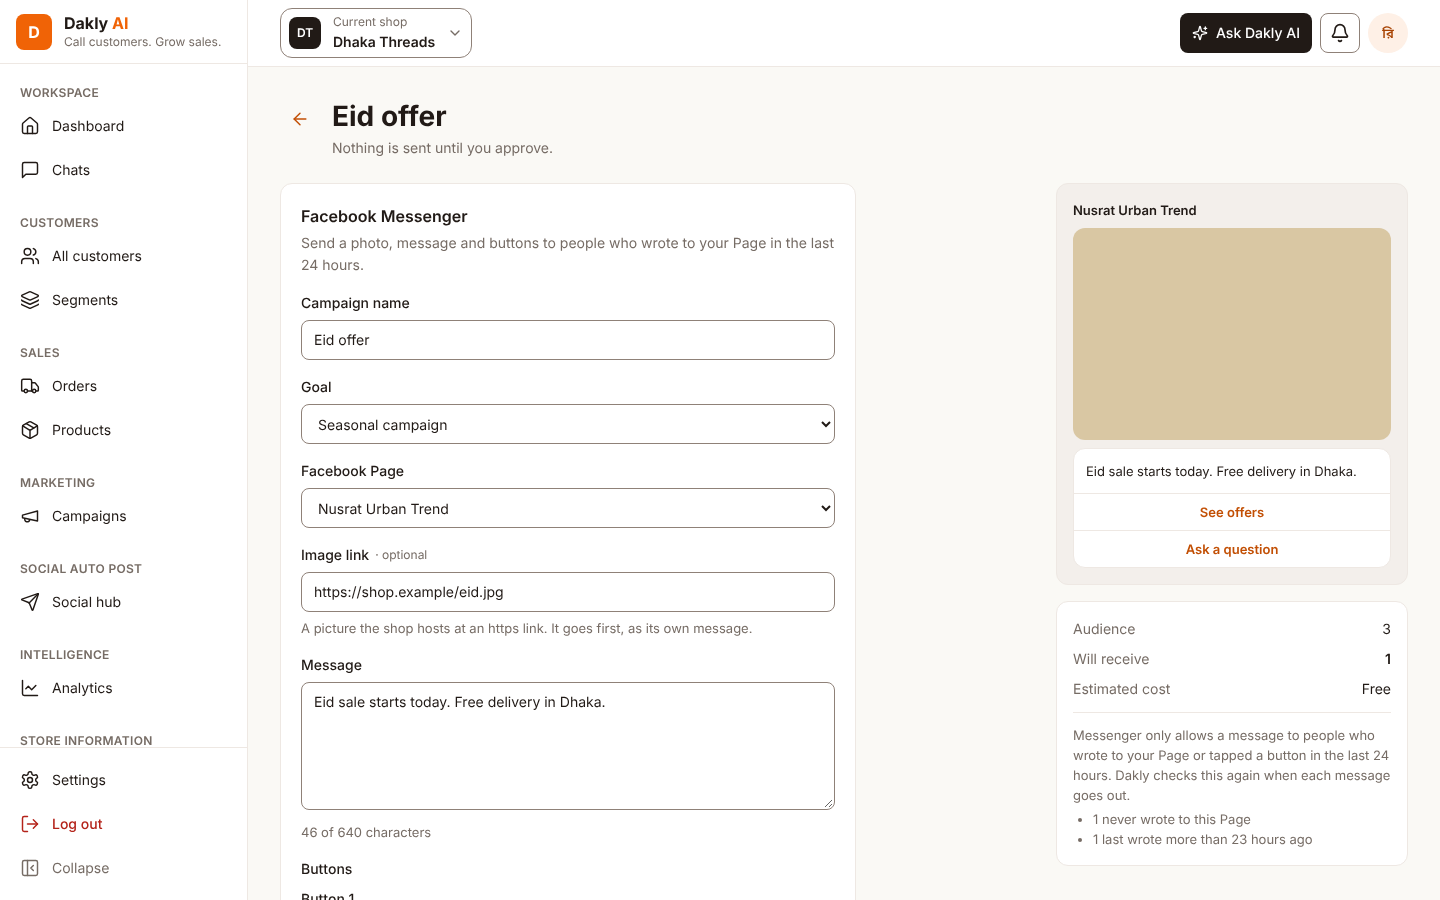
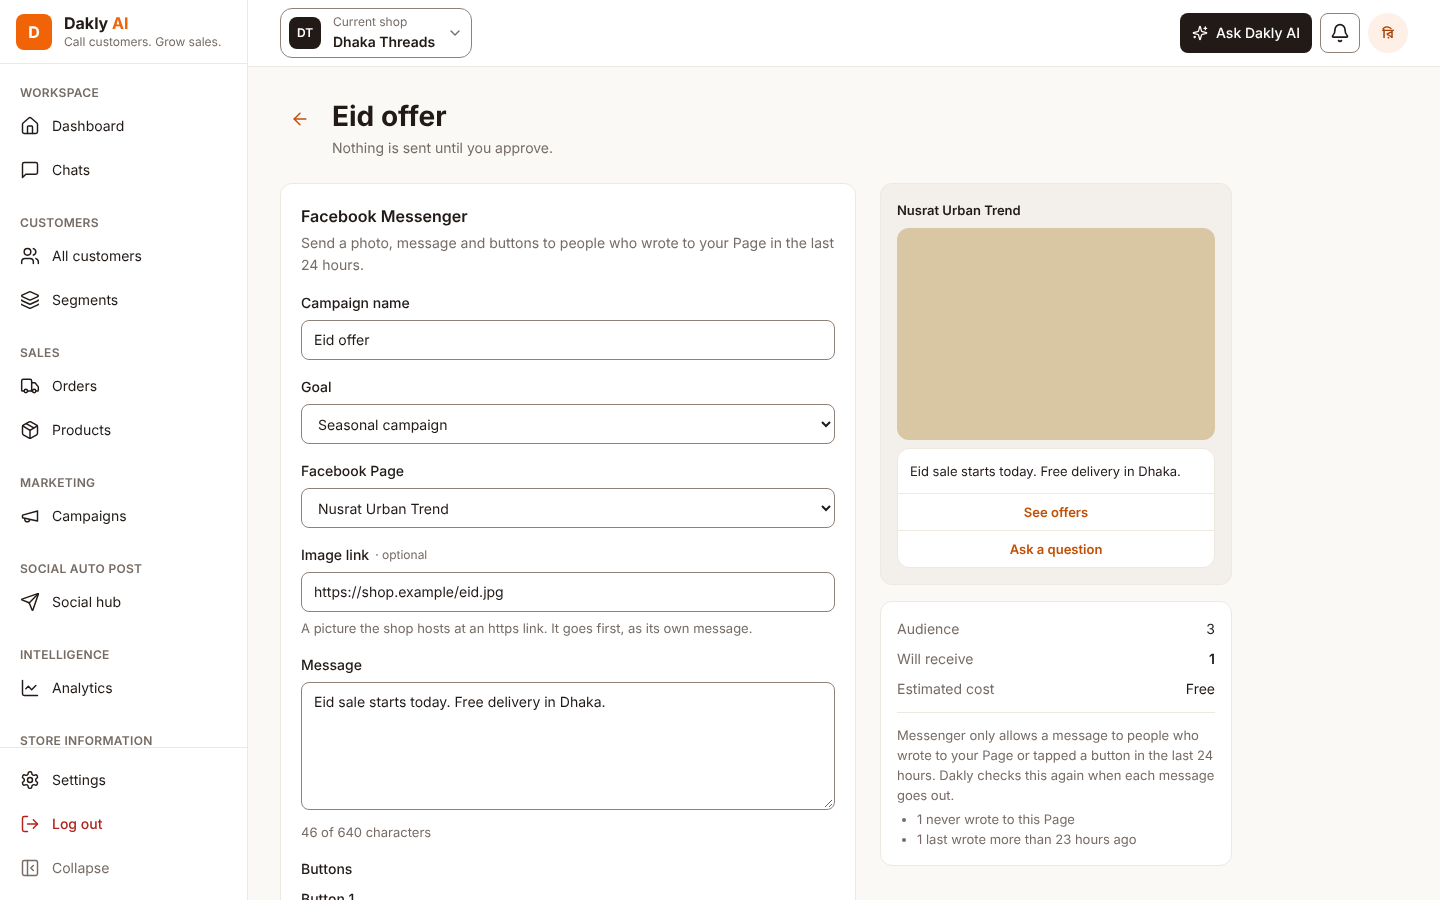
fix(camp-7): close the gap beside the Messenger form
Claude-Session: https://claude.ai/code/session_017XSqbqYe36hQGfwrbuzZvB

diff --git a/apps/web/src/features/campaigns/components/messenger-draft.tsx b/apps/web/src/features/campaigns/components/messenger-draft.tsx
@@ -52,7 +52,7 @@ export function MessengerDraft({
   return (
     <FormProvider {...form}>
       {campaign ? (
-        <div className="grid items-start gap-6 lg:grid-cols-[minmax(0,1fr)_22rem]">
+        <div className="grid items-start gap-6 lg:grid-cols-[minmax(0,36rem)_minmax(0,22rem)]">
           {formElement}
           <Side pages={pages} campaign={campaign} />
         </div>
